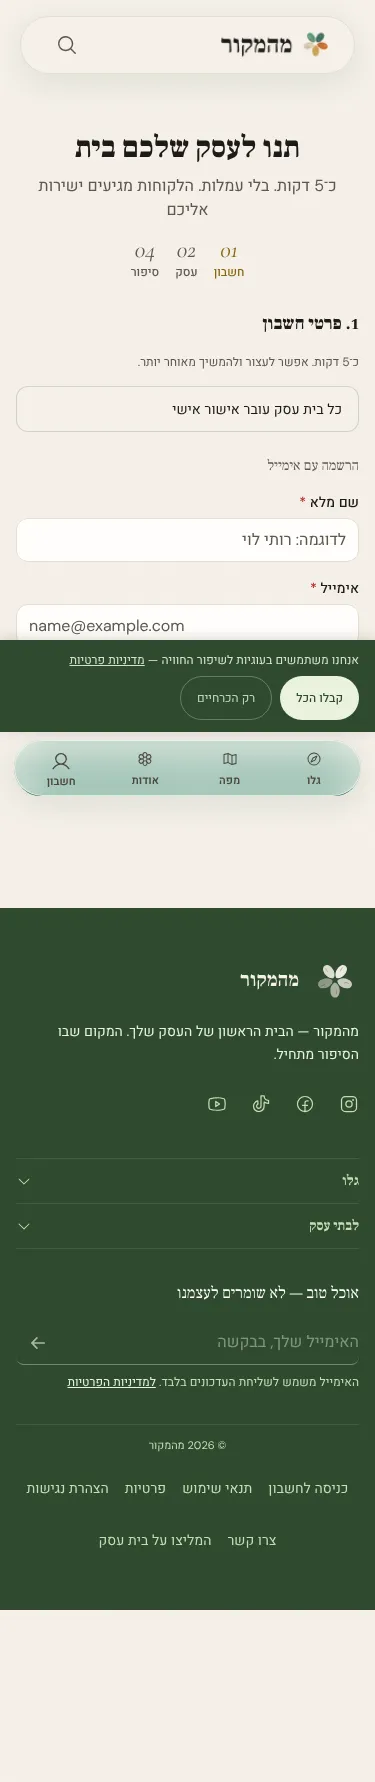
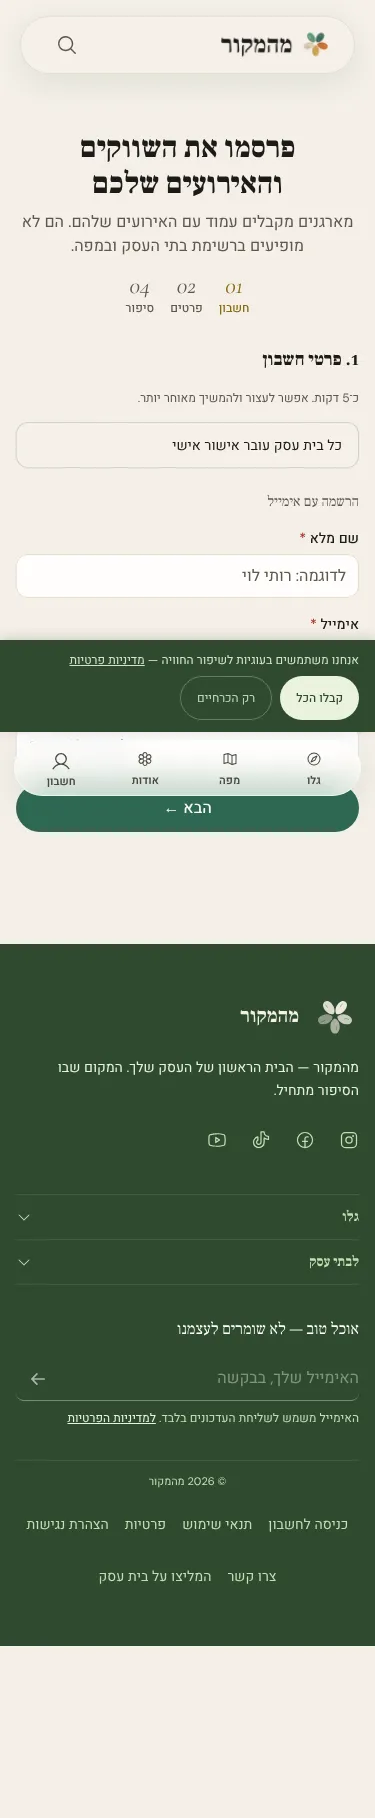
feat(register): organizer heading, line and step caption (MEH-2773)
Copy approved by Sapir 06/11 18:38Z («מאשרת»):
- heading «פרסמו את השווקים והאירועים שלכם»
- subtitle reuses the already-approved fields.organizer_hint
- step 2 caption «פרטים» instead of «עסק»
Business route unchanged (control test). Organizer screenshots re-captured.

Builder-Model: claude-opus-5-5

Claude-Session: https://claude.ai/code/session_01X8DSqUqmGhxfH7BcQpeoWZ

diff --git a/frontend/app/[locale]/register/producer/RegisterProducerClient.jsx b/frontend/app/[locale]/register/producer/RegisterProducerClient.jsx
@@ -922,8 +922,15 @@ function RegisterProducerPageBody({ routeKind }) {
             step < STEP.CONFIRM guard on the banners + stepper. */}
         {step < STEP.CONFIRM && (
           <>
-            <h1 data-testid="register-hero-heading" className="font-headline-lg text-3xl font-black text-text mb-2 text-center">{t("auth.register.producer.heading")}</h1>
-            <p className="text-fg-muted text-center mb-4">{t("auth.register.producer.subtitle")}</p>
+            {/* MEH-2773: the organizer route has its own heading and line
+                (copy approved by Sapir 06/11); the subtitle reuses the
+                already-approved organizer_hint sentence. */}
+            <h1 data-testid="register-hero-heading" className="font-headline-lg text-3xl font-black text-text mb-2 text-center">
+              {t(routeIsOrganizer ? "auth.register.producer.organizer_heading" : "auth.register.producer.heading")}
+            </h1>
+            <p className="text-fg-muted text-center mb-4">
+              {t(routeIsOrganizer ? "auth.register.producer.fields.organizer_hint" : "auth.register.producer.subtitle")}
+            </p>
           </>
         )}
 
@@ -958,7 +965,7 @@ function RegisterProducerPageBody({ routeKind }) {
           <div className="flex justify-center gap-4 mb-8">
             {[
               { s: STEP.ACCOUNT, caption: t("auth.register.producer.step_captions.account") },
-              { s: STEP.DETAILS, caption: t("auth.register.producer.step_captions.details") },
+              { s: STEP.DETAILS, caption: t(isOrganizer ? "auth.register.producer.step_captions.details_organizer" : "auth.register.producer.step_captions.details") },
               { s: STEP.CATEGORY, caption: t("auth.register.producer.step_captions.category") },
               { s: STEP.STORY, caption: t("auth.register.producer.step_captions.story") },
             ]

diff --git a/frontend/__tests__/RegisterProducerOrganizer.test.jsx b/frontend/__tests__/RegisterProducerOrganizer.test.jsx
@@ -299,6 +299,23 @@ describe("MEH-2460 / MEH-2640 — registering as a markets / events organizer", 
     expect(screen.queryByText(`${K}.preflight.organizer_entry`)).toBeNull();
   });
 
+  it("MEH-2773: the organizer route shows the organizer heading, line and step caption", async () => {
+    render(<RegisterProducerClient kind="organizer" />);
+    const h = await screen.findByTestId("register-hero-heading");
+    expect(h).toHaveTextContent(`${K}.organizer_heading`);
+    expect(screen.getByText(`${K}.fields.organizer_hint`)).toBeInTheDocument();
+    expect(screen.getByText(`${K}.step_captions.details_organizer`)).toBeInTheDocument();
+    expect(screen.queryByText(`${K}.step_captions.details`)).toBeNull();
+  });
+
+  it("MEH-2773: the business wizard keeps the business heading (control)", async () => {
+    await renderWizard();
+    const h = await screen.findByTestId("register-hero-heading");
+    expect(h).toHaveTextContent(`${K}.heading`);
+    expect(h).not.toHaveTextContent("organizer_heading");
+    expect(screen.getByText(`${K}.step_captions.details`)).toBeInTheDocument();
+  });
+
   it("MEH-2773: the organizer route skips the business preflight", async () => {
     render(<RegisterProducerClient kind="organizer" />);
     expect(await screen.findByText(`${K}.steps.account.title`)).toBeInTheDocument();
